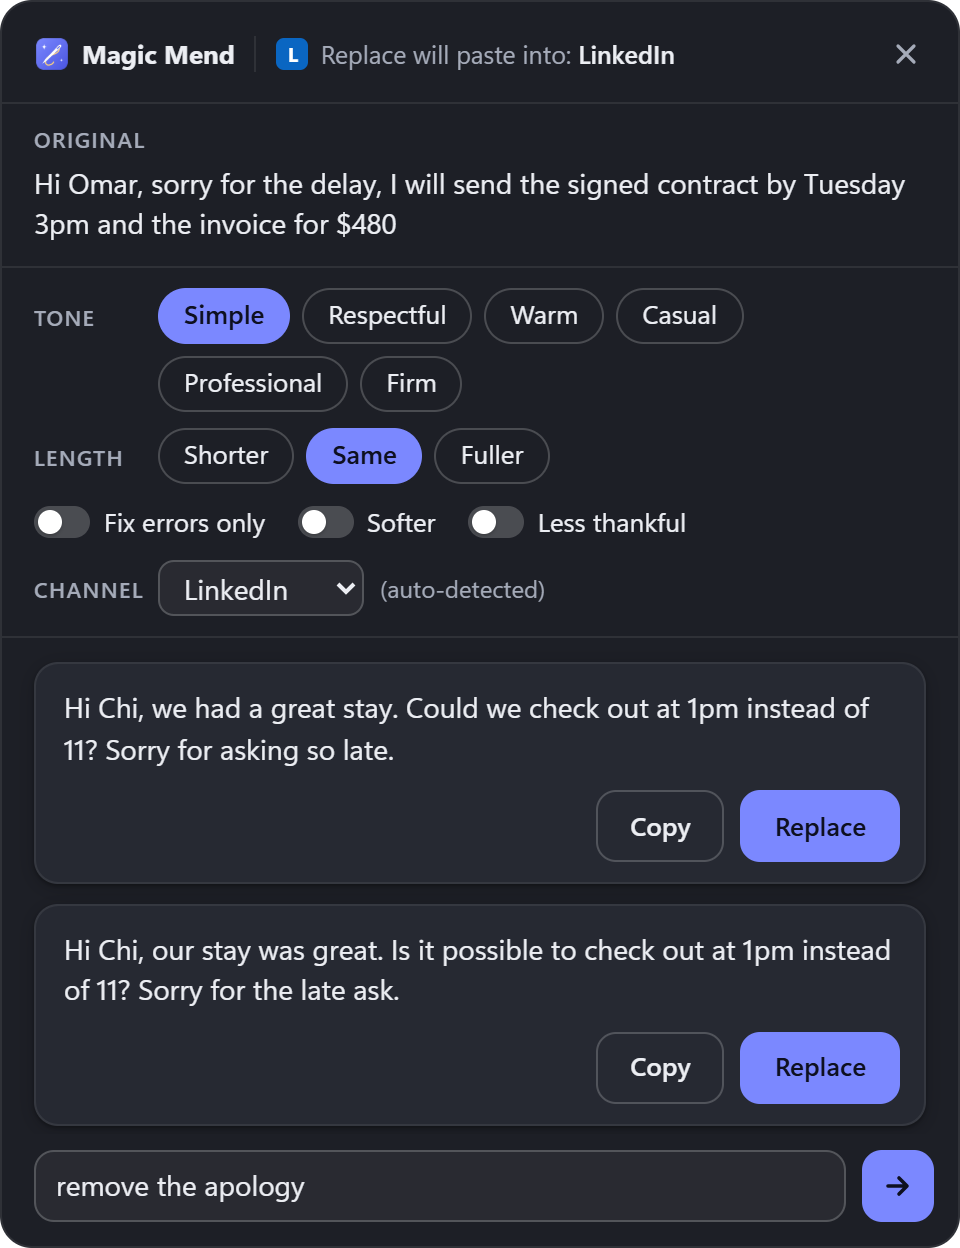
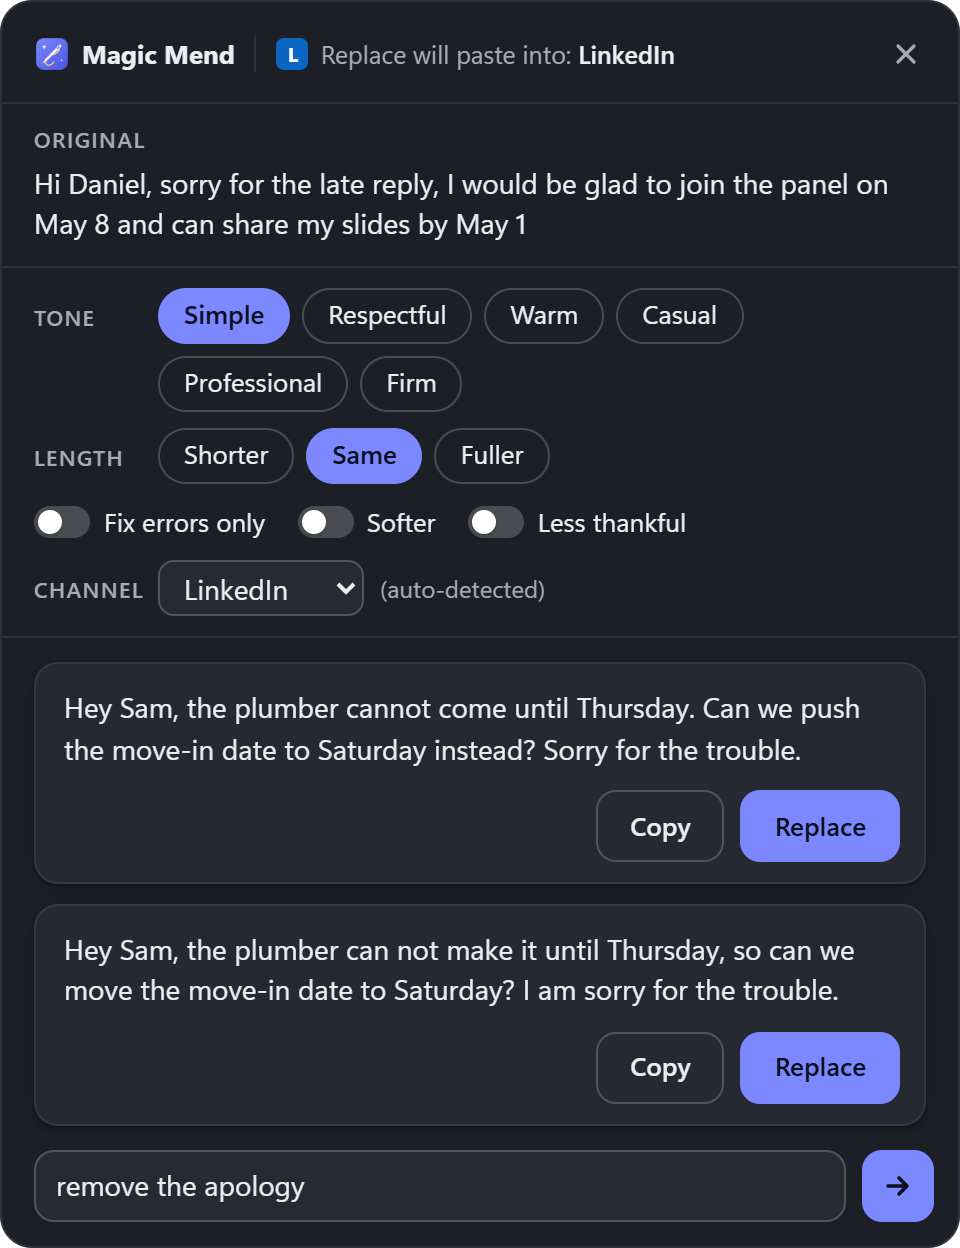
Replace example messages with new invented ones
New examples chosen by the user: a move-in date change for Sam, a proposal
follow-up for Priya, a dinner note for Fix errors only, a panel reply for
Daniel, and a community cleanup reminder. Screenshots, the how-it-works
illustration, demo drafts, and README regenerated with real Claude drafts.

Changed region(s): [[0.0625, 0.75, 0.9375, 0.8125], [0.0625, 0.5625, 0.9062, 0.625], [0.0312, 0.125, 0.9375, 0.1875]]

diff --git a/src/bridge.ts b/src/bridge.ts
@@ -27,16 +27,16 @@ export async function listen<T>(event: string, handler: Handler<T>): Promise<voi
 // ---------------------------------------------------------------------------------------------
 // Fake backend for design work and browser tests.
 
-const SAMPLE = "hi chi, we had a great stay, can we check out at 1pm instead of 11, sorry for asking so late";
+const SAMPLE = "hey sam, the plumber cant come till thursday so can we push the move-in date to saturday instead, sorry for the trouble";
 
 const FAKE: Record<string, string[]> = {
   Simple: [
-    "Hi Chi, we had a great stay. Could we check out at 1pm instead of 11? Sorry for asking so late.",
-    "Hi Chi, our stay was great. Is it possible to check out at 1pm instead of 11? Sorry for the late ask.",
+    "Hey Sam, the plumber cannot come until Thursday. Can we push the move-in date to Saturday instead? Sorry for the trouble.",
+    "Hey Sam, the plumber can not make it until Thursday, so can we move the move-in date to Saturday? I am sorry for the trouble.",
   ],
   Respectful: [
-    "Hi Chi, thank you for a wonderful stay. Could you please let us know if we may check out at 1pm instead of 11? I apologize for asking so late.",
-    "Hi Chi, we truly enjoyed our stay. Would it be possible to check out at 1pm instead of 11? I am sorry for the late request.",
+    "Hey Sam, the plumber cannot come until Thursday. Could we please push the move-in date to Saturday instead? Sorry for the trouble.",
+    "Hey Sam, the plumber is not available until Thursday, so could we move the move-in date to Saturday instead? I am sorry for the trouble.",
   ],
 };
 
@@ -145,9 +145,9 @@ export const mock = {
   stream(reqId: number, req: Request) {
     const fix = req.toggles.includes("Fix errors only");
     let drafts = (FAKE[req.tone] ?? FAKE.Simple).slice(0, fix ? 1 : req.drafts ?? 2);
-    if (fix) drafts = ["Hi Chi, we had a great stay. Can we check out at 1pm instead of 11? Sorry for asking so late."];
+    if (fix) drafts = ["Hey Sam, the plumber cannot come till Thursday, so can we push the move-in date to Saturday instead? Sorry for the trouble."];
     if (req.followup) drafts = drafts.map((d) => d.replace(/ ?(Sorry|I apologize|I am sorry)[^.]*\./, ""));
-    if (req.channel === "Email") drafts = drafts.map((d) => d.replace(/^Hi Chi, /, "Hi Chi,\n\n") + "\n\nBest,");
+    if (req.channel === "Email") drafts = drafts.map((d) => d.replace(/^Hey Sam, /, "Hey Sam,\n\n") + "\n\nBest,");
     if (this.scripted) drafts = this.scripted.drafts;
     const words = drafts.map((d) => d.split(/(?<= )/));
     const max = Math.max(...words.map((w) => w.length));

diff --git a/README.md b/README.md
@@ -81,7 +81,7 @@ The first launch opens a short setup wizard. It finds `claude`, sends one tiny t
 - **Sounds like a person**: plain words, no corporate filler
 - **No contractions and no em dashes**, ever. Every draft is scanned (straight and curly apostrophes included). If one slips through, Claude is asked once to fix it, and any leftover em dash is fixed locally. Replace and Copy stay off until a draft passes
 - **Facts kept exactly**: names, numbers, dates, times, prices, links, and addresses
-- **Greetings and religious phrases kept as written**, such as *"Assalamu Alaikum"* or *"Jazakallah khair"*
+- **Greetings and special phrases kept as written**, in any language, such as *"Good morning everyone!"*
 - **Never invents** facts, promises, or names, and keeps your first person voice
 
 ### Safe by Design
@@ -131,9 +131,9 @@ The first launch opens a short setup wizard. It finds `claude`, sends one tiny t
 <p align="center">
   <img src="docs/images/screenshots/popup-followup.png" alt="The popup after the follow-up remove the apology, showing drafts without the apology" width="400" />
   &nbsp;&nbsp;
-  <img src="docs/images/screenshots/popup-greeting.png" alt="The popup keeping the greeting Assalamu Alaikum in two Respectful drafts" width="400" />
+  <img src="docs/images/screenshots/popup-greeting.png" alt="The popup keeping the greeting Good morning everyone in two drafts for a community reminder" width="400" />
 </p>
-<p align="center"><em>"Remove the apology" changes only that. Greetings and religious phrases are kept exactly as written.</em></p>
+<p align="center"><em>"Remove the apology" changes only that. Greetings, days, times, and places are kept exactly as written.</em></p>
 
 <p align="center">
   <img src="docs/images/screenshots/popup-streaming.png" alt="Drafts streaming into the popup word by word" width="400" />
